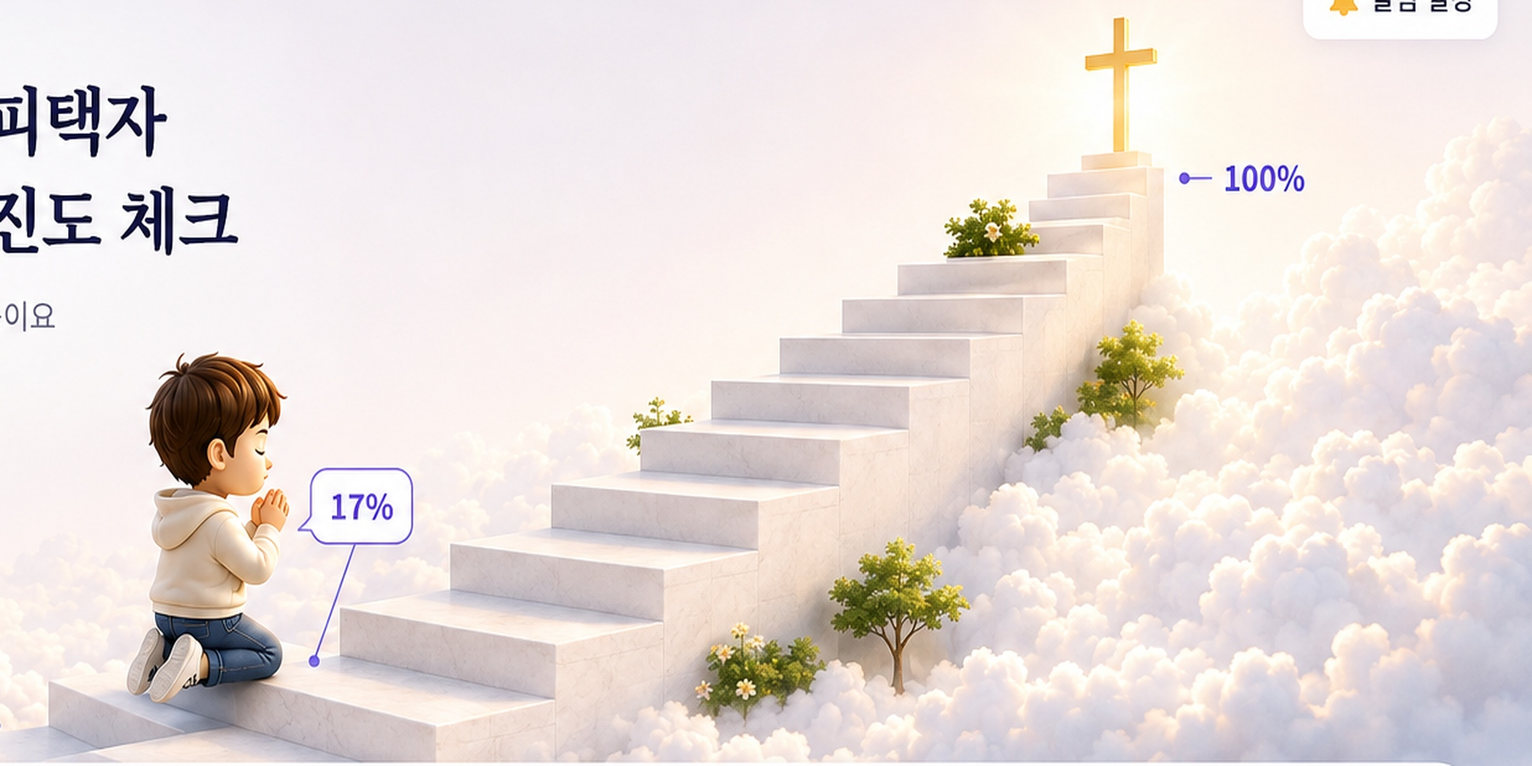
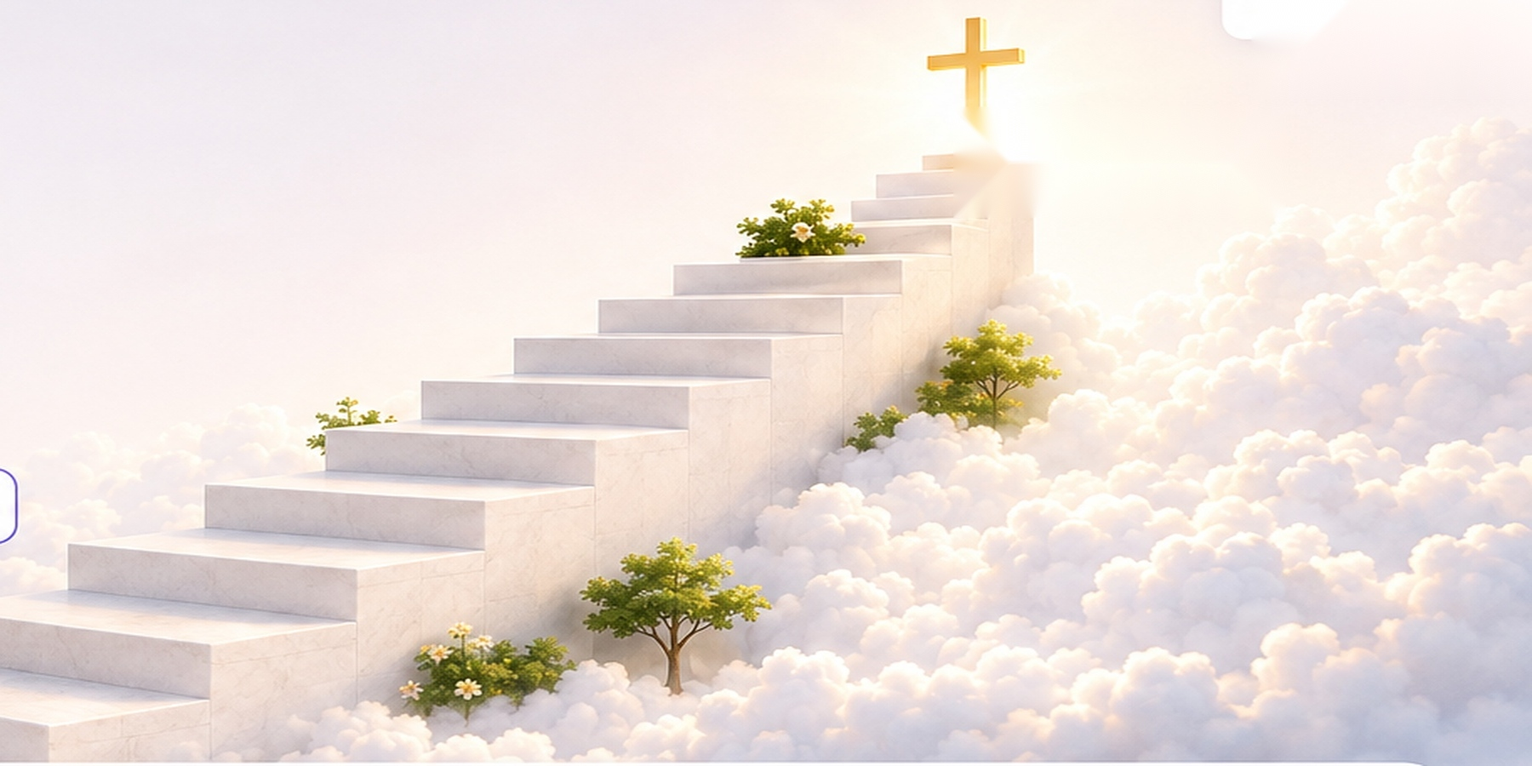
Update V3.1 book progress dashboard

diff --git a/app.js b/app.js
@@ -1,142 +1,33 @@
-const LS={progress:"scripture_progress_v2",history:"scripture_history_v2",reminder:"scripture_reminder_v2"};
-if(!window.NT_BOOKS || !Array.isArray(window.NT_BOOKS) || window.NT_BOOKS.length<20){
-  document.body.innerHTML='<main style="padding:24px;font-family:system-ui"><h2>새 버전 데이터를 불러오지 못했습니다.</h2><p>브라우저 캐시를 새로고침한 뒤 다시 열어주세요.</p></main>';
-  throw new Error("NT_BOOKS data missing");
-}
-const $=s=>document.querySelector(s), $$=s=>[...document.querySelectorAll(s)], BOOKS=window.NT_BOOKS, TARGET_END="2026-12-31";
-const verses=[], verseIndex=new Map();
-BOOKS.forEach((b,bi)=>b.chapters.forEach((count,ci)=>{for(let v=1;v<=count;v++){let o={book:b.name,bookIndex:bi,chapter:ci+1,verse:v};verseIndex.set(`${bi}:${ci+1}:${v}`,verses.length);verses.push(o)}}));
-const ref=x=>`${x.book} ${x.chapter}:${x.verse}`, todayISO=()=>new Date().toLocaleDateString("sv-SE");
-const fmtDate=iso=>{let d=new Date(iso+"T00:00:00");return `${d.getMonth()+1}/${d.getDate()}(${["일","월","화","수","목","금","토"][d.getDay()]})`};
-let saved=JSON.parse(localStorage.getItem(LS.progress)||"null");
-if(!saved){let bi=BOOKS.findIndex(b=>b.name==="마가복음");saved={completedIndex:verseIndex.get(`${bi}:7:37`),updatedAt:null}}
-let history=JSON.parse(localStorage.getItem(LS.history)||"[]");
-let reminder=JSON.parse(localStorage.getItem(LS.reminder)||'{"enabled":false,"time":"22:00","days":[1,2,3,4,5,6]}');
-let schedule=[];
-
-function eligibleDates(){let d=new Date(todayISO()+"T00:00:00"),e=new Date(TARGET_END+"T00:00:00"),a=[];while(d<=e){if(d.getDay()!==0)a.push(d.toLocaleDateString("sv-SE"));d.setDate(d.getDate()+1)}return a}
-function generateSchedule(){let start=(saved.completedIndex??-1)+1,rem=verses.length-start,dates=eligibleDates();if(rem<=0||!dates.length){schedule=[];return}
- dates=dates.slice(0,Math.min(dates.length,rem));let base=Math.floor(rem/dates.length),extra=rem%dates.length,idx=start;
- schedule=dates.map((date,i)=>{let n=base+(i<extra?1:0),s=idx,e=idx+n-1;idx=e+1;return{date,startIndex:s,endIndex:e,verses:n,range:`${ref(verses[s])} ~ ${ref(verses[e])}`}})}
-function currentItem(){return schedule.find(x=>x.date===todayISO())||schedule.find(x=>x.date>todayISO())||null}
-function progressValue(){return Math.max(0,Math.min(100,(((saved.completedIndex??-1)+1)/verses.length)*100))}
-function pctText(){let p=progressValue();return p<10?p.toFixed(1):p.toFixed(0)}
-function streak(){let set=new Set(history.map(x=>x.date)),n=0,d=new Date();for(let i=0;i<400;i++){let iso=d.toLocaleDateString("sv-SE");if(d.getDay()===0){d.setDate(d.getDate()-1);continue}if(set.has(iso)){n++;d.setDate(d.getDate()-1)}else if(iso===todayISO())d.setDate(d.getDate()-1);else break}return n}
-
-function buildStairs(){}
-function renderJourney(p){
-  const moving=$("#movingProgress"), bubble=$("#journeyBubble");
-  if(!moving || !bubble) return;
-  const t=Math.max(0,Math.min(100,p))/100;
-  moving.style.left=`${15 + 68*t}%`;
-  moving.style.bottom=`${8 + 65*t}%`;
-  bubble.textContent=`${pctText()}%`;
-}
-function remainingCalendarDays(){return schedule.length}
-function render(){
- generateSchedule();
- let cur=currentItem(),cp=verses[saved.completedIndex],p=progressValue(),completed=Math.max(0,(saved.completedIndex??-1)+1),remaining=Math.max(0,verses.length-completed);
- $("#todayLabel").textContent=new Intl.DateTimeFormat("ko-KR",{month:"long",day:"numeric",weekday:"short"}).format(new Date());
- $("#todayRange").textContent=cur?cur.range:(saved.completedIndex>=verses.length-1?"신약 필사 완료 🎉":"올해 계획 기간이 종료되었습니다.");
- $("#verseCount").textContent=cur?`오늘 ${cur.verses}절을 말씀과 함께 은혜롭게 필사해요.`:"";
- $("#completeBtn").classList.toggle("hidden",!cur); $("#undoBtn").classList.toggle("hidden",!history.some(x=>x.date===todayISO()));
- $("#progressPct").textContent=`${pctText()}%`; $("#statusPct").textContent=`${pctText()}%`;
- $("#progressFraction").textContent=`${completed.toLocaleString()} / ${verses.length.toLocaleString()}절`;
- $("#completedVerses").textContent=`${completed.toLocaleString()}절`;
- $("#remainingDays").textContent=`${remainingCalendarDays()}일`;
- $("#dailyAverage").textContent=schedule.length?`${Math.round(remaining/schedule.length)}절`:"0절";
- $("#doneDays").textContent=`${history.length}일`; $("#remainingVerses").textContent=`${remaining.toLocaleString()}절`;
- $("#streakPill").textContent=`🔥 ${streak()}일 연속`;
- $("#progressRing").style.setProperty("--p",p.toFixed(2));
- renderJourney(p);
- $("#progressSummary").textContent=cp?`현재 완료: ${ref(cp)} · 다음 시작: ${saved.completedIndex+1<verses.length?ref(verses[saved.completedIndex+1]):"완료"}`:"아직 시작 전";
- $("#planList").innerHTML=schedule.length?schedule.map(x=>`<div class="plan-row ${x.date===todayISO()?"today":""}"><span class="date">${fmtDate(x.date)}</span><span>${x.range} · ${x.verses}절</span></div>`).join(""):`<p class="helper">표시할 남은 계획이 없습니다.</p>`;
- $("#notifyToggle").checked=reminder.enabled;$("#notifyTime").value=reminder.time;$$(".day").forEach(b=>b.classList.toggle("active",reminder.days.includes(+b.dataset.day)));
-}
-function fillBooks(){ $("#bookSelect").innerHTML=BOOKS.map((b,i)=>`<option value="${i}">${b.name}</option>`).join("");let c=verses[saved.completedIndex]||verses[0];$("#bookSelect").value=c.bookIndex;fillCh(c.bookIndex,c.chapter);fillV(c.bookIndex,c.chapter,c.verse)}
-function fillCh(bi,sel=1){let b=BOOKS[bi];$("#chapterSelect").innerHTML=b.chapters.map((_,i)=>`<option value="${i+1}">${i+1}장</option>`).join("");$("#chapterSelect").value=Math.min(sel,b.chapters.length)}
-function fillV(bi,ch,sel=1){let max=BOOKS[bi].chapters[ch-1];$("#verseSelect").innerHTML=Array.from({length:max},(_,i)=>`<option value="${i+1}">${i+1}절</option>`).join("");$("#verseSelect").value=Math.min(sel,max)}
-$("#bookSelect").onchange=e=>{fillCh(+e.target.value,1);fillV(+e.target.value,1,1)};$("#chapterSelect").onchange=e=>fillV(+$("#bookSelect").value,+e.target.value,1);
-$("#saveProgressBtn").onclick=()=>{let bi=+$("#bookSelect").value,ch=+$("#chapterSelect").value,v=+$("#verseSelect").value,idx=verseIndex.get(`${bi}:${ch}:${v}`);saved={completedIndex:idx,updatedAt:new Date().toISOString()};localStorage.setItem(LS.progress,JSON.stringify(saved));$("#progressEditor").classList.add("collapsed");render()};
-$("#progressEditBtn").onclick=()=>$("#progressEditor").classList.toggle("collapsed");
-$("#completeBtn").onclick=()=>{let cur=currentItem();if(!cur)return;let t=todayISO();history=history.filter(x=>x.date!==t);history.push({date:t,prevIndex:saved.completedIndex,endIndex:cur.endIndex,range:cur.range});saved={completedIndex:cur.endIndex,updatedAt:new Date().toISOString()};localStorage.setItem(LS.history,JSON.stringify(history));localStorage.setItem(LS.progress,JSON.stringify(saved));render()};
-$("#undoBtn").onclick=()=>{let t=todayISO(),h=history.find(x=>x.date===t);if(!h)return;saved={completedIndex:h.prevIndex,updatedAt:new Date().toISOString()};history=history.filter(x=>x.date!==t);localStorage.setItem(LS.history,JSON.stringify(history));localStorage.setItem(LS.progress,JSON.stringify(saved));render()};
-
-const labels=["일","월","화","수","목","금","토"];$("#dayButtons").innerHTML=labels.map((x,i)=>`<button class="day ${reminder.days.includes(i)?"active":""}" data-day="${i}">${x}</button>`).join("");
-$("#dayButtons").onclick=e=>{if(!e.target.matches(".day"))return;let d=+e.target.dataset.day;reminder.days=reminder.days.includes(d)?reminder.days.filter(x=>x!==d):[...reminder.days,d].sort();e.target.classList.toggle("active")};
-async function requestNotifications(){if(!("Notification"in window))throw new Error("이 브라우저는 알림을 지원하지 않습니다.");let p=await Notification.requestPermission();if(p!=="granted")throw new Error("알림 권한이 허용되지 않았습니다.")}
-$("#saveReminder").onclick=async()=>{reminder.enabled=$("#notifyToggle").checked;reminder.time=$("#notifyTime").value;if(reminder.enabled){try{await requestNotifications()}catch(e){$("#notifyHelp").textContent=e.message;return}}localStorage.setItem(LS.reminder,JSON.stringify(reminder));$("#notifyHelp").textContent="알림 설정을 저장했습니다. 서버 푸시 연결은 다음 단계에서 활성화합니다."};
-$("#reflowBtn").onclick=()=>{generateSchedule();render()};
-function togglePanel(id,forceOpen=true){let p=$("#"+id);if(!p)return; if(forceOpen)p.classList.add("open");else p.classList.toggle("open");setTimeout(()=>p.scrollIntoView({behavior:"smooth",block:"start"}),50)}
-$$("[data-target]").forEach(b=>b.onclick=()=>togglePanel(b.dataset.target,false));
-$("#quickAlarmBtn").onclick=()=>togglePanel("reminderPanel",true);
-$$("[data-scroll]").forEach(b=>b.onclick=()=>{if(b.dataset.scroll==="today")document.querySelector(".today-card").scrollIntoView({behavior:"smooth"});else window.scrollTo({top:0,behavior:"smooth"})});
-
-let deferredPrompt;window.addEventListener("beforeinstallprompt",e=>{e.preventDefault();deferredPrompt=e;$("#installBtn").classList.remove("hidden")});$("#installBtn").onclick=async()=>{if(deferredPrompt){deferredPrompt.prompt();deferredPrompt=null}};
-if("serviceWorker" in navigator) navigator.serviceWorker.register("/sw.js?v=20260814-12");
-buildStairs();fillBooks();if(saved.updatedAt)$("#progressEditor").classList.add("collapsed");render();
-// V3.0 install / Add to Home Screen helper
-let deferredInstallPrompt = null;
-const isStandalone = () =>
-  window.matchMedia("(display-mode: standalone)").matches ||
-  window.navigator.standalone === true;
-
-function setupInstallGuide(){
-  const card = document.getElementById("installGuideCard");
-  const modal = document.getElementById("installGuideModal");
-  const openBtn = document.getElementById("installGuideBtn");
-  const nativeBtn = document.getElementById("nativeInstallBtn");
-  if(!card || !modal || !openBtn) return;
-
-  if(isStandalone()){
-    card.classList.add("hidden");
-    return;
-  }
-
-  const ua = navigator.userAgent || "";
-  const ios = /iPhone|iPad|iPod/i.test(ua);
-  const android = /Android/i.test(ua);
-  const iosGuide = document.getElementById("installIosGuide");
-  const androidGuide = document.getElementById("installAndroidGuide");
-
-  const showModal = () => {
-    modal.classList.remove("hidden");
-    if(iosGuide) iosGuide.classList.toggle("hidden", android && !ios);
-    if(androidGuide) androidGuide.classList.toggle("hidden", ios && !android);
-    document.body.style.overflow = "hidden";
-  };
-  const closeModal = () => {
-    modal.classList.add("hidden");
-    document.body.style.overflow = "";
-  };
-
-  openBtn.addEventListener("click", showModal);
-  modal.querySelectorAll("[data-close-install]").forEach(el => el.addEventListener("click", closeModal));
-
-  window.addEventListener("beforeinstallprompt", e => {
-    e.preventDefault();
-    deferredInstallPrompt = e;
-    if(nativeBtn) nativeBtn.classList.remove("hidden");
-  });
-
-  if(nativeBtn){
-    nativeBtn.addEventListener("click", async () => {
-      if(!deferredInstallPrompt) return;
-      deferredInstallPrompt.prompt();
-      await deferredInstallPrompt.userChoice;
-      deferredInstallPrompt = null;
-      nativeBtn.classList.add("hidden");
-    });
-  }
-
-  window.addEventListener("appinstalled", () => {
-    closeModal();
-    card.classList.add("hidden");
-  });
-}
-
-if(document.readyState === "loading"){
-  document.addEventListener("DOMContentLoaded", setupInstallGuide);
-}else{
-  setupInstallGuide();
-}
+const LS={progress:"scripture_progress_v2",bookProgress:"scripture_book_progress_v31",history:"scripture_history_v31",reminder:"scripture_reminder_v2",target:"scripture_target_date_v31"};
+if(!window.NT_BOOKS||!Array.isArray(window.NT_BOOKS)){throw new Error("NT_BOOKS data missing")}
+const $=s=>document.querySelector(s),$$=s=>[...document.querySelectorAll(s)],BOOKS=window.NT_BOOKS;
+const todayISO=()=>new Date().toLocaleDateString("sv-SE"),fmtDate=iso=>{let d=new Date(iso+"T00:00:00");return `${d.getMonth()+1}/${d.getDate()}(${["일","월","화","수","목","금","토"][d.getDay()]})`},ref=x=>`${x.book} ${x.chapter}:${x.verse}`;
+const bookTotals=BOOKS.map(b=>b.chapters.reduce((a,n)=>a+n,0)),TOTAL=bookTotals.reduce((a,n)=>a+n,0);
+let targetDate=localStorage.getItem(LS.target)||"2026-12-31";
+let bookProgress=JSON.parse(localStorage.getItem(LS.bookProgress)||"null");
+// migrate old sequential progress once: previous books become 100%, current book keeps its exact location.
+if(!bookProgress){bookProgress=BOOKS.map(()=>({chapter:0,verse:0}));let old=JSON.parse(localStorage.getItem(LS.progress)||"null");if(old&&Number.isInteger(old.completedIndex)){let n=old.completedIndex+1;for(let bi=0;bi<BOOKS.length;bi++){let bt=bookTotals[bi];if(n>=bt){let ch=BOOKS[bi].chapters.length;bookProgress[bi]={chapter:ch,verse:BOOKS[bi].chapters[ch-1]};n-=bt}else if(n>0){let ch=1;while(n>BOOKS[bi].chapters[ch-1]){n-=BOOKS[bi].chapters[ch-1];ch++}bookProgress[bi]={chapter:ch,verse:n};n=0;break}}}localStorage.setItem(LS.bookProgress,JSON.stringify(bookProgress))}
+let history=JSON.parse(localStorage.getItem(LS.history)||"[]"),reminder=JSON.parse(localStorage.getItem(LS.reminder)||'{"enabled":false,"time":"22:00","days":[1,2,3,4,5,6]}'),schedule=[],activeBook=0;
+function completedInBook(bi){let p=bookProgress[bi]||{chapter:0,verse:0};if(!p.chapter)return 0;let sum=BOOKS[bi].chapters.slice(0,p.chapter-1).reduce((a,n)=>a+n,0);return Math.min(bookTotals[bi],sum+Math.min(p.verse,BOOKS[bi].chapters[p.chapter-1]||0))}
+function completedTotal(){return bookProgress.reduce((s,_,bi)=>s+completedInBook(bi),0)}
+function progressValue(){return Math.max(0,Math.min(100,completedTotal()/TOTAL*100))}function pctText(){let p=progressValue();return p<10?p.toFixed(1):p.toFixed(0)}
+function remainingRefs(){let out=[];BOOKS.forEach((b,bi)=>{let done=completedInBook(bi),k=0;b.chapters.forEach((count,ci)=>{for(let v=1;v<=count;v++){if(k++>=done)out.push({book:b.name,bookIndex:bi,chapter:ci+1,verse:v})}})});return out}
+function eligibleDates(){let d=new Date(todayISO()+"T00:00:00"),e=new Date(targetDate+"T00:00:00"),a=[];while(d<=e){if(d.getDay()!==0)a.push(d.toLocaleDateString("sv-SE"));d.setDate(d.getDate()+1)}return a}
+function generateSchedule(){let rem=remainingRefs(),dates=eligibleDates();if(!rem.length||!dates.length){schedule=[];return}dates=dates.slice(0,Math.min(dates.length,rem.length));let base=Math.floor(rem.length/dates.length),extra=rem.length%dates.length,idx=0;schedule=dates.map((date,i)=>{let n=base+(i<extra?1:0),part=rem.slice(idx,idx+n);idx+=n;return{date,refs:part,verses:n,range:`${ref(part[0])} ~ ${ref(part[part.length-1])}`}})}
+function currentItem(){return schedule.find(x=>x.date===todayISO())||schedule.find(x=>x.date>todayISO())||null}function streak(){let set=new Set(history.map(x=>x.date)),n=0,d=new Date();for(let i=0;i<400;i++){let iso=d.toLocaleDateString("sv-SE");if(d.getDay()===0){d.setDate(d.getDate()-1);continue}if(set.has(iso)){n++;d.setDate(d.getDate()-1)}else if(iso===todayISO())d.setDate(d.getDate()-1);else break}return n}
+function renderJourney(p){let moving=$("#movingProgress"),bubble=$("#journeyBubble");if(!moving||!bubble)return;let t=Math.max(0,Math.min(100,p))/100;moving.style.left=`${13+72*t}%`;moving.style.bottom=`${7+68*t}%`;bubble.textContent=`${pctText()}%`}
+function splitTreemap(items,x,y,w,h,out=[]){if(!items.length)return out;if(items.length===1){out.push({...items[0],x,y,w,h});return out}let total=items.reduce((s,a)=>s+a.total,0),sum=0,cut=0;for(let i=0;i<items.length;i++){if(sum+items[i].total>total/2&&i>0)break;sum+=items[i].total;cut=i+1}cut=Math.max(1,Math.min(items.length-1,cut));let a=items.slice(0,cut),b=items.slice(cut),ratio=a.reduce((s,z)=>s+z.total,0)/total;if(w>=h){splitTreemap(a,x,y,w*ratio,h,out);splitTreemap(b,x+w*ratio,y,w*(1-ratio),h,out)}else{splitTreemap(a,x,y,w,h*ratio,out);splitTreemap(b,x,y+h*ratio,w,h*(1-ratio),out)}return out}
+function renderTreemap(){let box=$("#bookTreemap");if(!box)return;let items=BOOKS.map((b,bi)=>({bi,name:b.name,total:bookTotals[bi]})).sort((a,b)=>b.total-a.total),rects=splitTreemap(items,0,0,100,100);box.innerHTML=rects.map(r=>{let done=completedInBook(r.bi),pct=done/r.total*100;return `<button class="book-tile" data-bi="${r.bi}" style="left:${r.x}%;top:${r.y}%;width:${r.w}%;height:${r.h}%"><span class="done-fill" style="width:${pct}%"></span><span class="book-label"><strong>${r.name}</strong><small>${done.toLocaleString()}/${r.total.toLocaleString()}절 · ${Math.round(pct)}%</small></span></button>`}).join("")}
+function openBookModal(bi){activeBook=bi;let b=BOOKS[bi],p=bookProgress[bi]||{chapter:0,verse:0};$("#bookModalTitle").textContent=b.name;$("#bookModalSummary").textContent=`전체 ${bookTotals[bi].toLocaleString()}절 중 ${completedInBook(bi).toLocaleString()}절 완료`;$("#bookChapterSelect").innerHTML='<option value="0">아직 시작 전</option>'+b.chapters.map((_,i)=>`<option value="${i+1}">${i+1}장</option>`).join("");$("#bookChapterSelect").value=p.chapter||0;fillBookVerses(p.chapter||0,p.verse||0);$("#bookProgressModal").classList.remove("hidden");document.body.style.overflow="hidden"}
+function fillBookVerses(ch,sel=0){let s=$("#bookVerseSelect");if(!ch){s.innerHTML='<option value="0">0절</option>';s.disabled=true;return}s.disabled=false;let max=BOOKS[activeBook].chapters[ch-1];s.innerHTML=Array.from({length:max},(_,i)=>`<option value="${i+1}">${i+1}절</option>`).join("");s.value=Math.min(Math.max(1,sel||1),max)}
+function closeBookModal(){$("#bookProgressModal").classList.add("hidden");document.body.style.overflow=""}
+function saveAll(){localStorage.setItem(LS.bookProgress,JSON.stringify(bookProgress))}
+function render(){generateSchedule();let cur=currentItem(),p=progressValue(),completed=completedTotal(),remaining=TOTAL-completed;$("#todayLabel").textContent=new Intl.DateTimeFormat("ko-KR",{month:"long",day:"numeric",weekday:"short"}).format(new Date());$("#todayRange").textContent=cur?cur.range:(remaining===0?"신약 필사 완료 🎉":"목표 기간을 확인해주세요.");$("#verseCount").textContent=cur?`오늘 ${cur.verses}절을 말씀과 함께 은혜롭게 필사해요.`:"";$("#completeBtn").classList.toggle("hidden",!cur);$("#undoBtn").classList.toggle("hidden",!history.some(x=>x.date===todayISO()));$("#progressPct").textContent=`${pctText()}%`;$("#statusPct").textContent=`${pctText()}%`;$("#progressFraction").textContent=`${completed.toLocaleString()} / ${TOTAL.toLocaleString()}절`;$("#completedVerses").textContent=`${completed.toLocaleString()}절`;$("#remainingDays").textContent=`${schedule.length}일`;$("#dailyAverage").textContent=schedule.length?`${Math.round(remaining/schedule.length)}절`:"0절";$("#doneDays").textContent=`${history.length}일`;$("#remainingVerses").textContent=`${remaining.toLocaleString()}절`;$("#streakPill").textContent=`🔥 ${streak()}일 연속`;$("#progressRing").style.setProperty("--p",p.toFixed(2));renderJourney(p);renderTreemap();$("#planList").innerHTML=schedule.length?schedule.map(x=>`<div class="plan-row ${x.date===todayISO()?"today":""}"><span class="date">${fmtDate(x.date)}</span><span>${x.range} · ${x.verses}절</span></div>`).join(""):`<p class="helper">표시할 남은 계획이 없습니다.</p>`;$("#targetDate").value=targetDate;let td=new Date(targetDate+"T00:00:00");$("#footerTargetDate").textContent=`${td.getFullYear()}년 ${td.getMonth()+1}월 ${td.getDate()}일`;$("#notifyToggle").checked=reminder.enabled;$("#notifyTime").value=reminder.time;$$('.day').forEach(b=>b.classList.toggle('active',reminder.days.includes(+b.dataset.day)))}
+$("#bookTreemap").onclick=e=>{let b=e.target.closest('.book-tile');if(b)openBookModal(+b.dataset.bi)};$("#bookChapterSelect").onchange=e=>fillBookVerses(+e.target.value,1);$$('[data-close-book]').forEach(x=>x.onclick=closeBookModal);$("#saveBookProgress").onclick=()=>{let ch=+$("#bookChapterSelect").value,v=+$("#bookVerseSelect").value;bookProgress[activeBook]={chapter:ch,verse:ch?v:0};saveAll();closeBookModal();render()};$("#clearBookProgress").onclick=()=>{bookProgress[activeBook]={chapter:0,verse:0};saveAll();closeBookModal();render()};
+$("#saveTargetDate").onclick=()=>{let v=$("#targetDate").value;if(!v)return;let min=todayISO();if(v<min){$("#targetDateHelp").textContent="목표일은 오늘 이후로 선택해주세요.";return}targetDate=v;localStorage.setItem(LS.target,targetDate);$("#targetDateHelp").textContent="목표일을 저장했습니다. 남은 필사량을 다시 계산했습니다.";render()};$("#reflowBtn").onclick=render;
+$("#completeBtn").onclick=()=>{let cur=currentItem();if(!cur)return;let snapshot=JSON.parse(JSON.stringify(bookProgress));cur.refs.forEach(r=>{let bi=r.bookIndex,now=completedInBook(bi),candidate=BOOKS[bi].chapters.slice(0,r.chapter-1).reduce((a,n)=>a+n,0)+r.verse;if(candidate>now)bookProgress[bi]={chapter:r.chapter,verse:r.verse}});history=history.filter(x=>x.date!==todayISO());history.push({date:todayISO(),snapshot});saveAll();localStorage.setItem(LS.history,JSON.stringify(history));render()};$("#undoBtn").onclick=()=>{let t=todayISO(),h=history.find(x=>x.date===t);if(!h)return;bookProgress=h.snapshot;history=history.filter(x=>x.date!==t);saveAll();localStorage.setItem(LS.history,JSON.stringify(history));render()};
+const labels=["일","월","화","수","목","금","토"];$("#dayButtons").innerHTML=labels.map((x,i)=>`<button class="day ${reminder.days.includes(i)?"active":""}" data-day="${i}">${x}</button>`).join("");$("#dayButtons").onclick=e=>{if(!e.target.matches('.day'))return;let d=+e.target.dataset.day;reminder.days=reminder.days.includes(d)?reminder.days.filter(x=>x!==d):[...reminder.days,d].sort();e.target.classList.toggle('active')};async function requestNotifications(){if(!('Notification'in window))throw new Error('이 브라우저는 알림을 지원하지 않습니다.');let p=await Notification.requestPermission();if(p!=='granted')throw new Error('알림 권한이 허용되지 않았습니다.')}$("#saveReminder").onclick=async()=>{reminder.enabled=$("#notifyToggle").checked;reminder.time=$("#notifyTime").value;if(reminder.enabled){try{await requestNotifications()}catch(e){$("#notifyHelp").textContent=e.message;return}}localStorage.setItem(LS.reminder,JSON.stringify(reminder));$("#notifyHelp").textContent='알림 설정을 저장했습니다.'};
+function togglePanel(id,forceOpen=true){let p=$("#"+id);if(!p)return;if(forceOpen)p.classList.add('open');else p.classList.toggle('open');setTimeout(()=>p.scrollIntoView({behavior:'smooth',block:'start'}),50)}$$('[data-target]').forEach(b=>b.onclick=()=>togglePanel(b.dataset.target,false));$("#quickAlarmBtn").onclick=()=>togglePanel('reminderPanel',true);$$('[data-scroll]').forEach(b=>b.onclick=()=>{if(b.dataset.scroll==='today')document.querySelector('.today-card').scrollIntoView({behavior:'smooth'});else window.scrollTo({top:0,behavior:'smooth'})});
+let deferredPrompt;window.addEventListener('beforeinstallprompt',e=>{e.preventDefault();deferredPrompt=e;$("#installBtn").classList.remove('hidden')});$("#installBtn").onclick=async()=>{if(deferredPrompt){deferredPrompt.prompt();deferredPrompt=null}};
+function isStandalone(){return window.matchMedia('(display-mode: standalone)').matches||window.navigator.standalone===true}function setupInstallGuide(){let card=$("#installGuideCard"),modal=$("#installGuideModal"),open=$("#installGuideBtn"),native=$("#nativeInstallBtn");if(!card||!modal||!open)return;if(isStandalone()){card.classList.add('hidden');return}open.onclick=()=>{modal.classList.remove('hidden');document.body.style.overflow='hidden'};modal.querySelectorAll('[data-close-install]').forEach(x=>x.onclick=()=>{modal.classList.add('hidden');document.body.style.overflow=''})}
+if('serviceWorker'in navigator)navigator.serviceWorker.register('/sw.js?v=20260825-31');setupInstallGuide();render();

diff --git a/index.html b/index.html
@@ -11,7 +11,7 @@
   <link rel="preconnect" href="https://fonts.googleapis.com">
   <link rel="preconnect" href="https://fonts.gstatic.com" crossorigin>
   <link href="https://fonts.googleapis.com/css2?family=Noto+Sans+KR:wght@400;500;600;700;800&family=Noto+Serif+KR:wght@600;700;800&display=swap" rel="stylesheet">
-  <link rel="stylesheet" href="/styles.css?v=20260814-12">
+  <link rel="stylesheet" href="/styles.css?v=20260825-31">
   <title>청운교회 피택자 신약 필사 진도 체크</title>
 </head>
 <body>
@@ -33,11 +33,11 @@
       </div>
 
       <div class="journey layered-journey" aria-label="필사 진도 계단">
-        <img class="journey-bg" src="/journey-background.jpg?v=20260814-12" alt="" aria-hidden="true">
+        <img class="journey-bg" src="/journey-background.jpg?v=20260825-31" alt="" aria-hidden="true">
         <div class="marker marker-zero">0%</div>
         <div class="marker marker-hundred">100%</div>
         <div id="movingProgress" class="moving-progress">
-          <img id="prayerChild" class="moving-child" src="/praying-child.png?v=20260814-12" alt="무릎 꿇고 기도하는 아이">
+          <img id="prayerChild" class="moving-child" src="/praying-child.png?v=20260825-31" alt="무릎 꿇고 기도하는 아이">
           <div id="journeyBubble" class="journey-bubble">0%</div>
         </div>
       </div>
@@ -56,21 +56,32 @@
       </div>
     </section>
 
-    <section class="card current-card">
+    <section class="card book-progress-card">
       <div class="section-heading">
-        <div><p class="eyebrow">CURRENT PROGRESS</p><h3>현재 완료 위치 설정</h3></div>
-        <button id="progressEditBtn" class="text-btn">진도 수정</button>
+        <div><p class="eyebrow">BOOK PROGRESS</p><h3>권별 필사 진도</h3></div>
+        <span class="dashboard-hint">블록을 눌러 진도를 입력하세요</span>
       </div>
-      <p class="helper">마지막으로 완료한 위치를 입력해주세요. 그 다음 절부터 계획을 다시 계산합니다.</p>
-      <div id="progressSummary" class="progress-summary">진도를 설정해주세요.</div>
-      <div id="progressEditor" class="progress-editor">
-        <label><span>성경</span><select id="bookSelect"></select></label>
-        <label><span>장</span><select id="chapterSelect"></select></label>
-        <label><span>절</span><select id="verseSelect"></select></label>
-        <button id="saveProgressBtn" class="purple-btn">↻ 적용하고 계획 다시 계산</button>
-      </div>
-      <div class="example-note">ⓘ 예: 마가복음 10장 20절까지 완료하셨다면, 마가복음 10장 21절부터 다시 계획됩니다.</div>
+      <p class="helper">순서와 관계없이 완료한 각 권의 위치를 기록할 수 있습니다. 블록 크기는 각 권의 전체 절 수에 비례합니다.</p>
+      <div id="bookTreemap" class="book-treemap" aria-label="신약 권별 필사 진도 대시보드"></div>
+      <div class="treemap-legend"><span><i class="legend-remain"></i> 남은 분량</span><span><i class="legend-done"></i> 완료 분량</span></div>
     </section>
+
+    <div id="bookProgressModal" class="book-modal hidden" role="dialog" aria-modal="true">
+      <div class="book-modal-backdrop" data-close-book></div>
+      <div class="book-modal-sheet">
+        <button class="install-modal-close" type="button" data-close-book>×</button>
+        <p class="eyebrow">BOOK PROGRESS</p><h3 id="bookModalTitle">진도 입력</h3>
+        <p id="bookModalSummary" class="helper"></p>
+        <div class="book-progress-selects">
+          <label><span>장</span><select id="bookChapterSelect"></select></label>
+          <label><span>절</span><select id="bookVerseSelect"></select></label>
+        </div>
+        <div class="book-modal-actions">
+          <button id="clearBookProgress" class="undo-btn" type="button">이 권 진도 초기화</button>
+          <button id="saveBookProgress" class="purple-btn" type="button">완료 위치 저장</button>
+        </div>
+      </div>
+    </div>
 
     <section class="card today-card">
       <div class="today-copy">
@@ -113,6 +124,8 @@
 
     <section id="planPanel" class="card fold-panel">
       <div class="section-heading"><div><p class="eyebrow">PLAN</p><h3>전체 필사 계획</h3></div><button id="reflowBtn" class="text-btn">오늘부터 재분배</button></div>
+      <div class="target-date-row"><label for="targetDate"><span>🎯 목표 완료일</span><input id="targetDate" type="date"></label><button id="saveTargetDate" class="purple-btn">목표일 적용</button></div>
+      <p id="targetDateHelp" class="helper">목표일을 바꾸면 남은 필사일과 하루 분량을 자동으로 다시 계산합니다.</p>
       <div id="planList" class="plan"></div>
     </section>
 
@@ -164,7 +177,7 @@
       </div>
     </div>
 
-    <footer>한 절, 한 절이 모여 주님께 더 가까이 갑니다. · 목표 2026년 12월 31일</footer>
+    <footer>한 절, 한 절이 모여 주님께 더 가까이 갑니다. · 목표 <span id="footerTargetDate">2026년 12월 31일</span></footer>
 
     <nav class="bottom-nav">
       <button data-scroll="top">⌂<span>홈</span></button>
@@ -174,7 +187,7 @@
       <button data-target="reminderPanel">⚙<span>설정</span></button>
     </nav>
   </main>
-  <script src="/scripture.js?v=20260814-12"></script>
-  <script src="/app.js?v=20260814-12"></script>
+  <script src="/scripture.js?v=20260825-31"></script>
+  <script src="/app.js?v=20260825-31"></script>
 </body>
 </html>

diff --git a/styles.css b/styles.css
@@ -304,3 +304,36 @@ footer{text-align:center;color:#948f9d;font-size:11px;margin:25px 0 10px}
  .install-guide-card{grid-template-columns:48px 1fr}
  .install-guide-btn{grid-column:1/-1;width:100%}
 }
+
+/* V3.1 responsive hero + book treemap + target date */
+.hero-zone{overflow:hidden}
+.layered-journey{width:100%;max-width:100%;overflow:hidden}
+.layered-journey .journey-bg{object-fit:cover;object-position:center center}
+/* keep the complete staircase visible on narrow phones, without horizontal duplication on wide Fold/tablet */
+@media(max-width:520px){
+ .layered-journey{height:430px}
+ .layered-journey .journey-bg{object-fit:cover;object-position:53% center}
+ .layered-journey .marker-zero{left:4%;bottom:6%}
+ .layered-journey .marker-hundred{right:4%;top:7%}
+}
+@media(min-width:700px){
+ .shell{max-width:920px;margin:0 auto}
+ .hero-zone{border-radius:0 0 28px 28px}
+ .layered-journey{height:460px;max-width:920px;margin:0 auto}
+ .layered-journey .journey-bg{object-fit:cover;object-position:center center}
+ .hero-copy{max-width:760px}
+}
+.book-progress-card{padding-bottom:22px}
+.dashboard-hint{font-size:12px;color:#7254d8;font-weight:700}
+.book-treemap{position:relative;width:100%;height:520px;border-radius:18px;overflow:hidden;background:#e8f3ea;margin-top:16px;box-shadow:inset 0 0 0 1px rgba(43,91,55,.08)}
+.book-tile{position:absolute;border:2px solid rgba(255,255,255,.92);overflow:hidden;cursor:pointer;background:#43a65f;color:white;text-align:left;padding:0;transition:transform .12s ease,filter .12s ease}
+.book-tile:active{transform:scale(.985)}
+.book-tile .done-fill{position:absolute;left:0;top:0;bottom:0;background:#777b82;opacity:.95;pointer-events:none}
+.book-tile .book-label{position:absolute;inset:7px;z-index:2;display:flex;flex-direction:column;justify-content:center;text-shadow:0 1px 2px rgba(0,0,0,.28);pointer-events:none}
+.book-tile .book-label strong{font-size:clamp(10px,2.3vw,17px);line-height:1.15;white-space:nowrap;overflow:hidden;text-overflow:ellipsis}
+.book-tile .book-label small{font-size:10px;margin-top:3px;opacity:.94}
+.treemap-legend{display:flex;gap:18px;justify-content:flex-end;margin-top:10px;font-size:12px;color:#777184}.treemap-legend span{display:flex;align-items:center;gap:6px}.treemap-legend i{width:12px;height:12px;border-radius:3px;display:inline-block}.legend-remain{background:#43a65f}.legend-done{background:#777b82}
+.book-modal{position:fixed;inset:0;z-index:120;display:flex;align-items:flex-end;justify-content:center}.book-modal-backdrop{position:absolute;inset:0;background:rgba(28,20,43,.42);backdrop-filter:blur(2px)}.book-modal-sheet{position:relative;z-index:2;width:min(560px,100%);background:white;border-radius:24px 24px 0 0;padding:26px 22px calc(28px + env(safe-area-inset-bottom));box-shadow:0 -12px 40px rgba(34,22,57,.18)}
+.book-progress-selects{display:grid;grid-template-columns:1fr 1fr;gap:10px;margin:18px 0}.book-progress-selects label{display:flex;flex-direction:column;gap:7px;font-size:12px;color:#777}.book-progress-selects select{width:100%;padding:13px;border:1px solid #ddd7e8;border-radius:12px;background:white;font-size:16px}.book-modal-actions{display:grid;grid-template-columns:1fr 1.25fr;gap:9px}.book-modal-actions button{min-height:46px}
+.target-date-row{display:grid;grid-template-columns:1fr auto;gap:10px;align-items:end;background:#f6f1ff;border-radius:14px;padding:14px;margin:10px 0 8px}.target-date-row label{display:flex;flex-direction:column;gap:7px;font-weight:700;color:#49368e}.target-date-row input{border:1px solid #d9d0ec;background:white;border-radius:10px;padding:11px;font-size:15px}.target-date-row .purple-btn{min-height:44px}
+@media(max-width:520px){.book-treemap{height:470px}.book-modal-actions,.target-date-row{grid-template-columns:1fr}.dashboard-hint{display:none}}

diff --git a/sw.js b/sw.js
@@ -1,16 +1,16 @@
 
-const CACHE="scripture-pwa-v3-0-20260814-12";
+const CACHE="scripture-pwa-v3-1-20260825-31";
 const ASSETS=[
   "/",
   "/index.html",
-  "/styles.css?v=20260814-12",
-  "/app.js?v=20260814-12",
-  "/scripture.js?v=20260814-12",
+  "/styles.css?v=20260825-31",
+  "/app.js?v=20260825-31",
+  "/scripture.js?v=20260825-31",
   "/manifest.webmanifest",
   "/icon.svg",
-  "/journey-background.jpg?v=20260814-12",
-  "/praying-child.png?v=20260814-12",
-  "/journey-art.jpg?v=20260814-12"
+  "/journey-background.jpg?v=20260825-31",
+  "/praying-child.png?v=20260825-31",
+  "/journey-art.jpg?v=20260825-31"
 ];
 
 self.addEventListener("install", event => {
